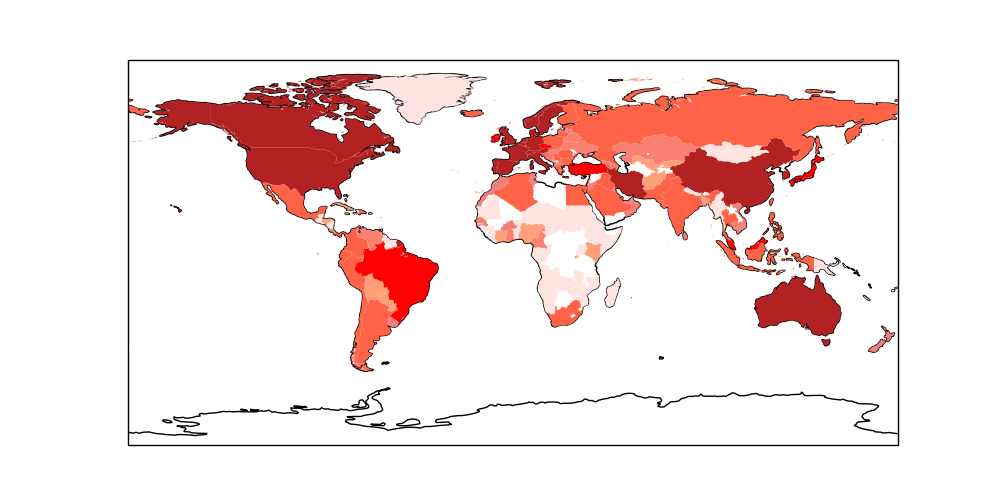
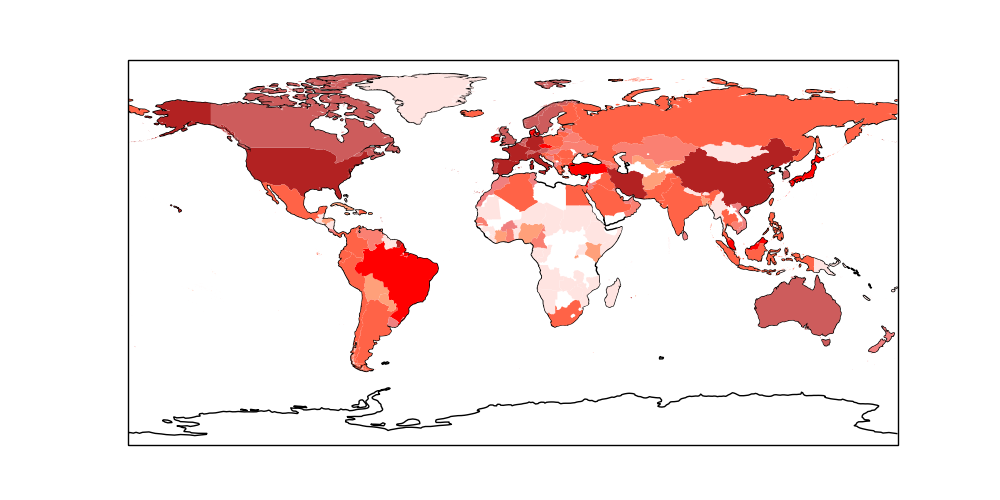
-

diff --git a/en/2020/02/corona.md b/en/2020/02/corona.md
@@ -3,9 +3,10 @@
 ```python
 import util, pandas as pd
 
-bins = [0, 20, 50, 100, 200, 1000, 2000, 100000]
-colors = ["mistyrose","lightsalmon","salmon",
-          "lightcoral","tomato","red","firebrick"]	      
+bins = [0, 20, 50, 100, 200, 1000, 2000, 10000, 100000,200000]
+colors = ["mistyrose","lightsalmon","salmon",\
+          "lightcoral", "tomato","red",\
+	  "indianred","firebrick","maroon"]
 df, col_dict = util.retrieve_cor_data(bins,colors)
 ```
 
@@ -311,3 +312,4 @@ Files - [corona.csv](corona.csv), [corona-time.zip](corona-time.zip), [alpha3cou
 
 [Reference](https://www.worldometers.info/coronavirus/)
 
+[Colors](https://matplotlib.org/3.1.0/gallery/color/named_colors.html)
